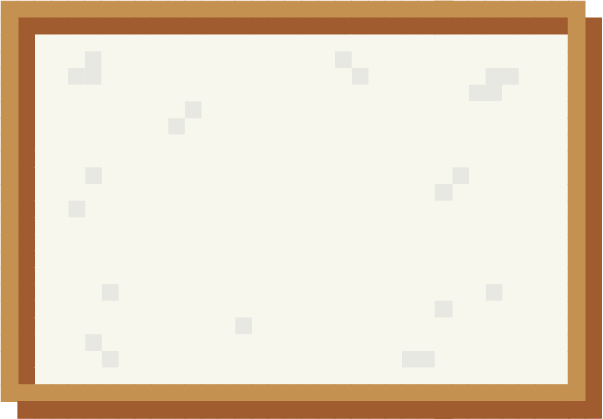
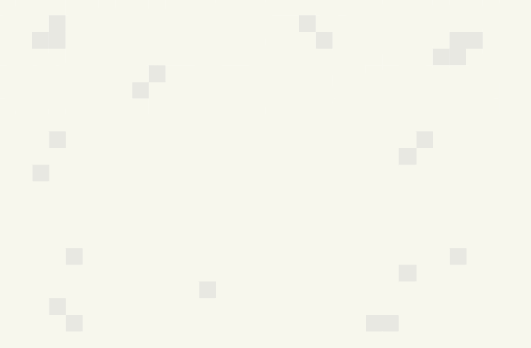
feat: Nice little signs on shelves

Changed region(s): [[0.0, 0.0, 1.0, 1.0]]

diff --git a/app/assets/stylesheets/application.scss b/app/assets/stylesheets/application.scss
@@ -142,14 +142,9 @@ h6 {
 
 // Shelves
 .shelf-sign {
-  // background-image: url('shelf-sign-thin.png');
-  // background-size: cover;
-  // background-repeat: no-repeat;
-  // background-position: center;
-  // padding: 2.25em 1em;
-  padding: .25em;
-  border: 5px dashed #4d3b29;
-  background-image: linear-gradient(to bottom right, #ffffff, #d4d4d4);
+  background-image: url('shelf-sign.png');
+  background-size: cover;
+  border: 5px solid #4d3b29;
   width: 25%;
   box-shadow: 1pt 1pt 3pt #292d3580; 
   border-radius: 1em;
